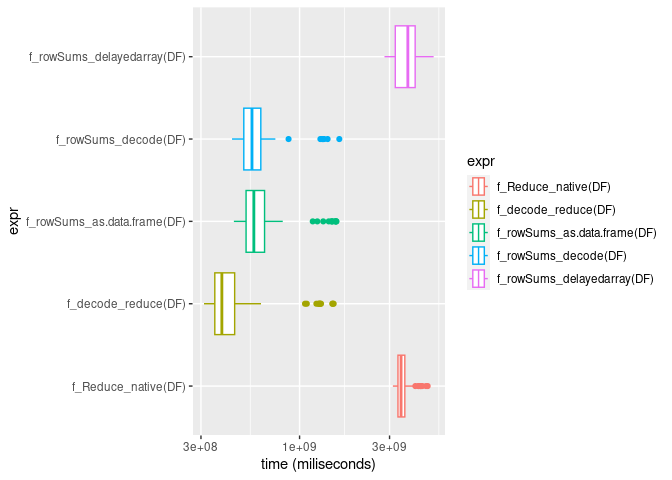
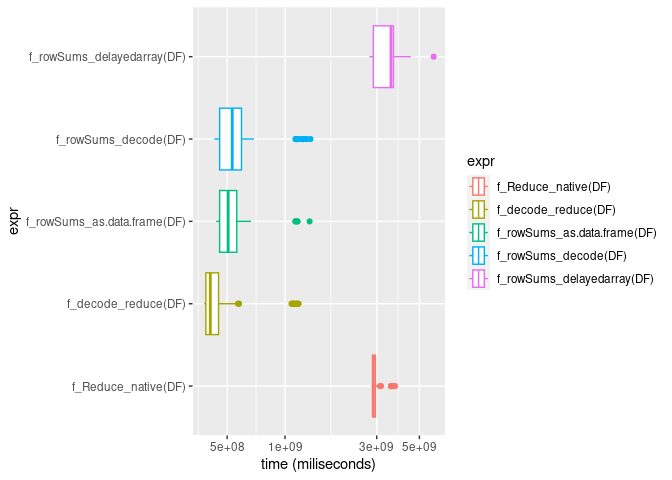
Rebuild

diff --git a/benchmarks/rowSums_on_Rle_DF.md b/benchmarks/rowSums_on_Rle_DF.md
@@ -24,8 +24,8 @@ library("ggplot2") |> suppressPackageStartupMessages()
 # DF <- CTSStagCountDF(exampleCAGEexp)
 DF <- ZebrafishDevelopmentalCAGE::ZebrafishCAGE |> assay()
 
-f_Reduce_native         <- function(DF) Reduce(`+`, DF, Rle(0))
-f_decode_reduce         <- function(DF) Rle(Reduce(`+`, lapply(DF, decode), 0))
+f_Reduce_native         <- function(DF) Reduce(`+`, DF, Rle(0L))
+f_decode_reduce         <- function(DF) Rle(Reduce(`+`, lapply(DF, decode), 0L))
 f_rowSums_as.data.frame <- function(DF) Rle(rowSums(as.data.frame(DF)))
 f_rowSums_decode        <- function(DF) Rle(rowSums(data.frame(lapply(DF, decode))))
 f_rowSums_delayedarray  <- function(DF) Rle(rowSums(DelayedArray::DelayedArray(DF)))
@@ -46,17 +46,17 @@ f_rowSums_delayedarray  <- function(DF) Rle(rowSums(DelayedArray::DelayedArray(D
 ```
 ## Unit: milliseconds
 ##                         expr       min        lq      mean    median        uq
-##          f_Reduce_native(DF) 3123.5140 3320.7487 3532.0372 3451.9774 3615.9572
-##          f_decode_reduce(DF)  311.3833  355.1572  494.7205  387.1896  452.8512
-##  f_rowSums_as.data.frame(DF)  448.3442  520.1004  671.9624  572.1575  652.3051
-##         f_rowSums_decode(DF)  438.3752  505.2630  618.4694  559.2740  622.9931
-##   f_rowSums_delayedarray(DF) 2819.1220 3206.4391 3727.6560 3750.7067 4100.5520
-##       max neval  cld
-##  4777.751   100   c 
-##  1516.292   100 a   
-##  1567.608   100  b  
-##  1624.716   100 ab  
-##  5138.834   100    d
+##          f_Reduce_native(DF) 2820.0130 2851.1089 2958.8023 2882.6713 2954.0970
+##          f_decode_reduce(DF)  379.0275  387.3549  491.2393  408.6045  452.3557
+##  f_rowSums_as.data.frame(DF)  438.7085  456.6085  542.6159  505.9753  561.3461
+##         f_rowSums_decode(DF)  428.7342  456.6478  622.6066  531.3930  595.9486
+##   f_rowSums_delayedarray(DF) 2745.2522 2877.5242 3424.9081 3558.1666 3664.0597
+##       max neval
+##  3737.623   100
+##  1177.820   100
+##  1342.846   100
+##  1356.036   100
+##  5930.785   100
 ```
 
 ```r
@@ -73,7 +73,7 @@ ggplot(microbench_out, aes(x = time, y = expr, color = expr)) +  # Plot performa
 The winner is:
 
 ```
-f_decode_reduce <- function(DF) Rle(Reduce(`+`, lapply(DF, decode), 0))
+f_decode_reduce <- function(DF) Rle(Reduce(`+`, lapply(DF, decode), 0L))
 ```
 
 Explained with more verbose code:
@@ -81,8 +81,224 @@ Explained with more verbose code:
 ```
 f_decode_reduce <- function(DF) {
   list_of_numerical_vectors <- lapply(DF, decode)
-  parallel_sum              <- Reduce(`+`, list_of_numerical_vectors, 0)
+  parallel_sum              <- Reduce(`+`, list_of_numerical_vectors, 0L)
   result                    <- Rle(parallel_sum)
   return(result)
 }
+```
+
+## Appendix: asking ChatGPT
+
+After running this benchmark, I asked ChatGPT via Sidekick.  Here is our conversation:
+
+Charles Plessy  10:05 PM
+
+> Good evening, ChatGPT
+
+Sidekick APP  10:05 PM
+
+> Good evening! How can I assist you today?
+
+Charles Plessy  10:06 PM
+
+> Do you know the DataFrame class in the Bioconductor S4Vectors R package?
+
+Sidekick APP  10:06 PM
+
+> Yes, I'm familiar with it. The DataFrame class in the Bioconductor S4Vectors R package is an S4 class for representing a list of vectors of the same length. It's similar to a data frame in base R, but with more features. It's designed to handle genomic data, but can be used for any data that can be organized as a collection of equal-length vectors.
+
+Charles Plessy  10:07 PM
+
+> I use it to store numeric values compressed with the Rle class of the S4Vectors R package.
+
+Sidekick APP  10:07 PM
+
+> Sure, I'd be happy to help!
+
+> The DataFrame class is a part of the S4Vectors package in R, which is a part of the Bioconductor project. It's designed to handle large amounts of data efficiently. It's similar to data.frames in base R, but with some additional features.
+
+> The Rle (Run Length Encoding) class is also a part of the S4Vectors package. It's used to represent a sequence of repeated values in a more memory-efficient way. For example, instead of storing the sequence c(1, 1, 1, 2, 2, 3, 3, 3, 3), you could store it as an Rle object as (3 times 1, 2 times 2, 4 times 3).
+
+> To store numeric values compressed with the Rle class in a DataFrame, you would first create the Rle object, and then include it in the DataFrame. 
+
+> Here's a basic example:
+
+```
+R
+# Load the S4Vectors package
+library(S4Vectors)
+
+# Create an Rle object
+rle_object <- Rle(c(1, 1, 1, 2, 2, 3, 3, 3, 3))
+
+# Create a DataFrame with the Rle object
+df <- DataFrame(rle_column = rle_object)
+```
+
+> In this example, 'df' is a DataFrame that contains a single column ('rle_column') with the compressed numeric values.
+
+> Remember that Rle objects can be more memory-efficient when you have long sequences of repeated values. If your data doesn't have many repeated values, you might not see much benefit from using Rle.
+
+Charles Plessy  10:09 PM
+
+> Can the base function rowSums work on a Bioconductor DataFrame of Rle-encoded values?
+
+Sidekick APP  10:09 PM
+
+> _Thinking... Thanks for waiting!_
+
+Charles Plessy  10:20 PM
+
+> I am waiting but please allow me to repeat my question: can the base function rowSums work on a Bioconductor DataFrame of Rle-encoded values?
+
+Sidekick APP  10:20 PM
+
+> No, the base function `rowSums` in R cannot directly work on a Bioconductor DataFrame of Rle-encoded values. The `rowSums` function is designed to work with numeric matrices or data frames. Rle-encoded values are a type of list, and `rowSums` cannot handle lists directly. You would need to first convert or extract the Rle-encoded values into a numeric matrix or data frame before using `rowSums`.
+
+Charles Plessy  10:22 PM
+
+> Please write for me an efficient function that computes row sums on a Bioconductor DataFrame of Rle-encoded values.
+
+Sidekick APP  10:22 PM
+
+> Sure, here's a simple function in R that computes the row sums on a DataFrame of Rle-encoded values. This function assumes that your DataFrame is named `df` and that it only contains Rle-encoded columns.
+
+```
+R
+library(DelayedArray)
+
+rowSumsRle <- function(df) {
+  # Convert the DataFrame to a matrix
+  mat <- as.matrix(df)
+  
+  # Apply the rowSums function
+  result <- rowSums(mat)
+  
+  return(result)
+}
+You can use this function like this:
+R
+sums <- rowSumsRle(df)
+```
+
+> This will return a vector where each element is the sum of the corresponding row in the DataFrame. Please note that this function will only work correctly if all columns in the DataFrame are Rle-encoded. If there are any non-Rle-encoded columns, you will need to handle them separately.
+
+Charles Plessy  10:26 PM
+
+> Thank you, can you write one function that is more computationally efficient?
+
+Sidekick APP  10:26 PM
+
+> Sure, here's a simple example of how you might do this in R. This function uses the `rowSums` function, which is a highly optimized function for computing row sums in R. It first decodes the Rle-encoded values using the `runValue` function from the Bioconductor package, then computes the row sums.
+
+```
+R
+library(Bioconductor)
+
+computeRowSums <- function(df) {
+  # Decode Rle-encoded values
+  decoded_values <- lapply(df, function(x) { runValue(x) })
+  
+  # Convert list to data frame
+  decoded_df <- do.call(cbind.data.frame, decoded_values)
+  
+  # Compute row sums
+  row_sums <- rowSums(decoded_df)
+  
+  return(row_sums)
+}
+```
+
+> Please note that this function assumes that all columns in the input data frame are Rle-encoded. If this is not the case, you may need to add some additional error checking to handle columns that are not Rle-encoded.
+
+Charles Plessy  10:29 PM
+
+> Thank you again. I would like to make a benchmark with different approaches. Can you propose a third alternative that uses a different algorithm^
+
+Sidekick APP  10:29 PM
+
+> Sure, here's an alternative function using the `rowSums` function in R. This function will first decode the Rle-encoded values, then compute the row sums. Please note that this function assumes that your DataFrame is named `df` and that all columns contain Rle-encoded values.
+
+```
+R
+library(DelayedArray)
+
+computeRowSums <- function(df) {
+  # Decode Rle-encoded values
+  decoded_df <- as.data.frame(lapply(df, function(x) unlist(runValue(x))))
+  
+  # Compute row sums
+  row_sums <- rowSums(decoded_df)
+  
+  return(row_sums)
+}
+
+# Usage
+row_sums <- computeRowSums(df)
+```
+
+> This function uses the `lapply` function to apply the decoding function to each column of the DataFrame. The `unlist` and `runValue` functions are used to decode the Rle-encoded values. The `rowSums` function is then used to compute the row sums. Please replace `df` with your actual DataFrame name.
+
+### But the functions do not work...
+
+
+```r
+rowSumsRle <- function(df) {
+  # Convert the DataFrame to a matrix
+  mat <- as.matrix(df)
+  
+  # Apply the rowSums function
+  result <- rowSums(mat)
+  
+  return(result)
+}
+```
+
+```
+> rowSumsRle(DF)
+
+ Error in base::rowSums(x, na.rm = na.rm, dims = dims, ...) : 
+  'x' must be an array of at least two dimensions
+```
+
+
+```r
+computeRowSums <- function(df) {
+  # Decode Rle-encoded values
+  decoded_values <- lapply(df, function(x) { runValue(x) })
+  
+  # Convert list to data frame
+  decoded_df <- do.call(cbind.data.frame, decoded_values)
+  
+  # Compute row sums
+  row_sums <- rowSums(decoded_df)
+  
+  return(row_sums)
+}
+```
+
+```
+> computeRowSums(DF)
+Error in data.frame(..., check.names = FALSE) : 
+  arguments imply differing number of rows: 796039, 952755, 971432, 1077882, 890977, 930738, 933017, 926733, 579846, 1449206, 1308034, 1260173
+```
+
+
+```r
+computeRowSums <- function(df) {
+  # Decode Rle-encoded values
+  decoded_df <- as.data.frame(lapply(df, function(x) unlist(runValue(x))))
+  
+  # Compute row sums
+  row_sums <- rowSums(decoded_df)
+  
+  return(row_sums)
+}
+```
+
+```
+> computeRowSums(DF)
+
+ Error in (function (..., row.names = NULL, check.rows = FALSE, check.names = TRUE,  : 
+  arguments imply differing number of rows: 796039, 952755, 971432, 1077882, 890977, 930738, 933017, 926733, 579846, 1449206, 1308034, 1260173
 ```
